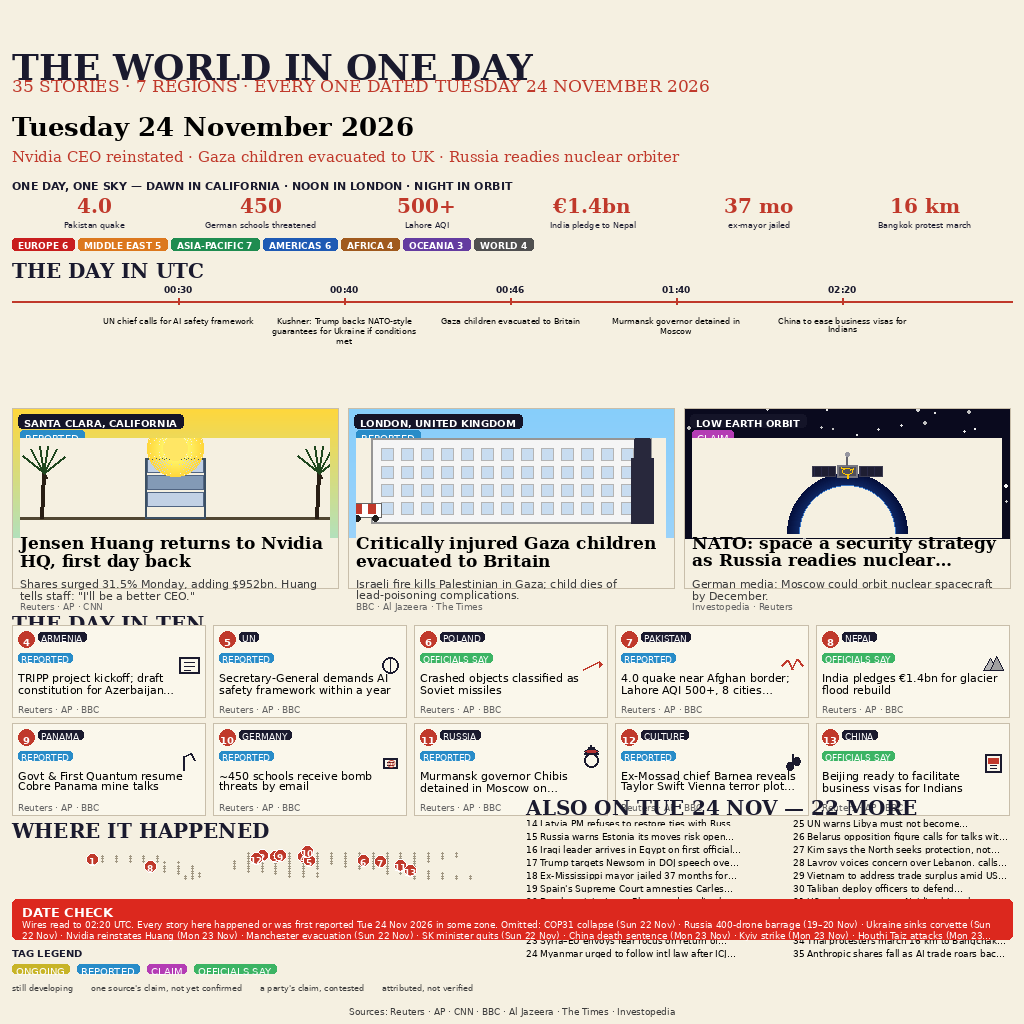
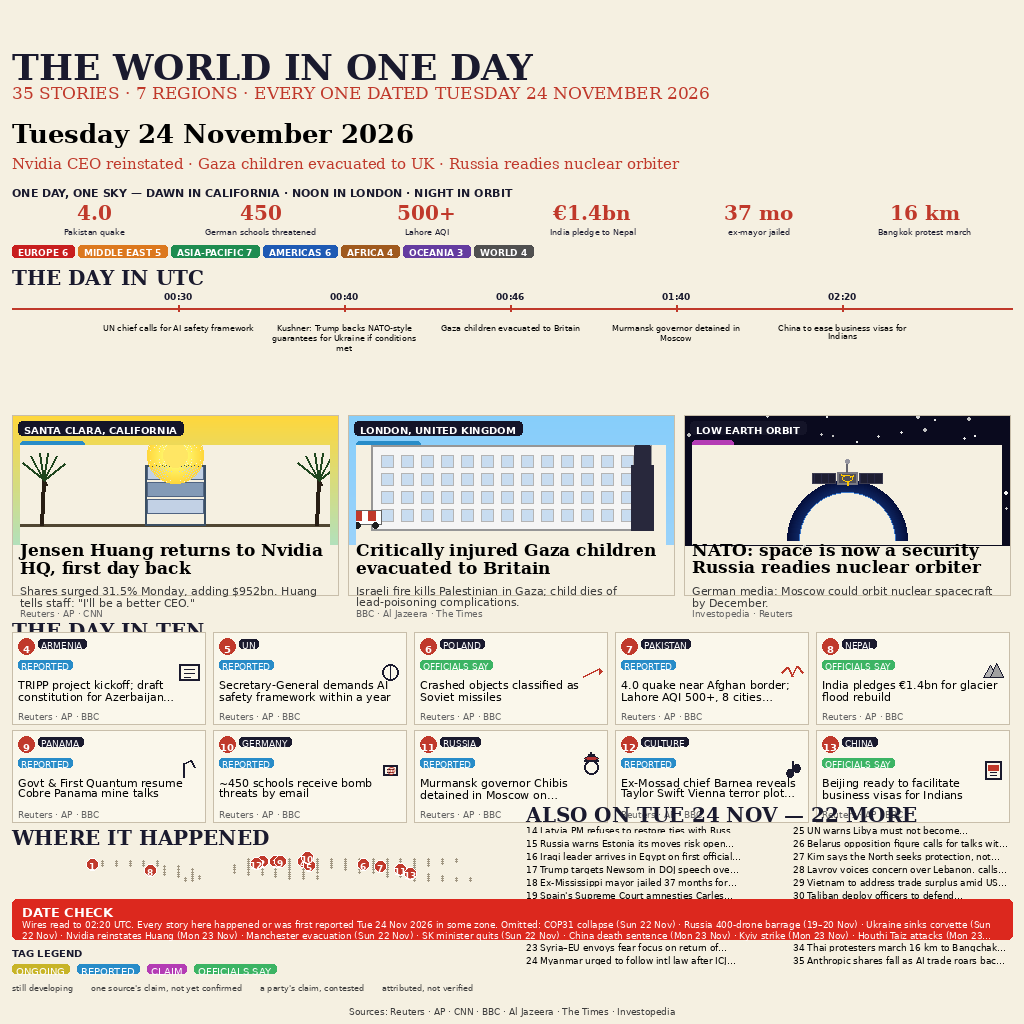
Round 2 fix 5: clip map at x<=514, full panel-3 headline, masthead gap 12px, chips below kicker labels

diff --git a/tools/generate.py b/tools/generate.py
@@ -104,9 +104,12 @@ def wrap_text(draw: ImageDraw.ImageDraw, text: str, font: ImageFont.FreeTypeFont
     return lines
 
 def draw_text_box(draw: ImageDraw.ImageDraw, x: int, y: int, text: str, font: ImageFont.FreeTypeFont,
-                  color: tuple, max_w: int, line_spacing: int = 1, align: str = "left", max_lines: int = None) -> int:
+                  color: tuple, max_w: int, line_spacing: int = 1, align: str = "left", max_lines: int = None,
+                  no_ellipsis: bool = False) -> int:
     lines = wrap_text(draw, text, font, max_w)
     if max_lines is not None and len(lines) > max_lines:
+        if no_ellipsis:
+            raise ValueError(f"Text exceeds max_lines={max_lines} and no_ellipsis=True: {text!r}")
         lines = lines[:max_lines]
         last = lines[-1]
         while measure_text(draw, last + "…", font)[0] > max_w and len(last) > 3:
@@ -409,6 +412,7 @@ def generate() -> Image.Image:
 
     GAP = 5
     GAP8 = 16  # minimum 8px CLEAR visual gap for Cluster A bands (font metrics need extra)
+    MASTHEAD_GAP = 12  # fixed: was 5px, now 12px for clear gap after title
 
     # ═══ MEASURE ALL FONT METRICS ═══
     title_h = font_height(draw, F_TITLE)
@@ -465,7 +469,7 @@ def generate() -> Image.Image:
 
     # 1. MASTHEAD (baseline at y + ascent)
     Y_MASTHEAD_BASELINE = y + title_ascent
-    y = Y_MASTHEAD_BASELINE + title_descent + GAP
+    y = Y_MASTHEAD_BASELINE + title_descent + MASTHEAD_GAP
 
     # 2. SUBHEAD
     Y_SUBHEAD_BASELINE = y + subhead_ascent
@@ -673,7 +677,7 @@ def generate() -> Image.Image:
         {
             "kicker": "LOW EARTH ORBIT",
             "tag": "CLAIM",
-            "headline": "NATO: space a security strategy as\nRussia readies nuclear orbiter",
+            "headline": "NATO: space is now a security\nRussia readies nuclear orbiter",
             "body": "German media: Moscow could orbit\nnuclear spacecraft by December.",
             "source": "Investopedia · Reuters",
             "scene_draw": draw_orbit_scene,
@@ -703,7 +707,9 @@ def generate() -> Image.Image:
         draw.rounded_rectangle([kx, ky, kx + kw + 2 * kpad_x, ky + kh + 2 * kpad_y],
                                radius=4, fill=(20, 20, 40))
         draw.text((kx + kpad_x, ky + kpad_y), kicker, font=F_CAPTION_BOLD, fill=WHITE)
-        draw_chip(draw, px + 8, py + 22, story["tag"], F_CAPTION, TAG_COLOURS[story["tag"]])
+        # Chip in own y-band BELOW kicker: 6px below kicker bottom, 6px inside left edge
+        chip_y = ky + kh + 2 * kpad_y + 6
+        draw_chip(draw, px + 8, chip_y, story["tag"], F_CAPTION, TAG_COLOURS[story["tag"]])
         scene_x = px + 8
         scene_y = py + 30
         scene_w = panel_w - 16
@@ -722,7 +728,9 @@ def generate() -> Image.Image:
             bg.paste(scene_img, mask=scene_img.split()[3])
             img.paste(bg, (scene_x, scene_y))
         hy = py + panel_h - 55
-        draw_text_box(draw, px + 8, hy, story["headline"], F_HEADLINE_XS, BLACK, panel_w - 16, line_spacing=1, max_lines=2)
+        # Panel 3 (i==2): disable ellipsis so too-long text fails loudly
+        no_ellipsis = (i == 2)
+        draw_text_box(draw, px + 8, hy, story["headline"], F_HEADLINE_XS, BLACK, panel_w - 16, line_spacing=1, max_lines=2, no_ellipsis=no_ellipsis)
         by = hy + 44
         draw_text_box(draw, px + 8, by, story["body"], F_BODY_SM, DARK_GRAY, panel_w - 16, line_spacing=1, max_lines=2)
         sy = by + 24
@@ -783,14 +791,20 @@ def generate() -> Image.Image:
     available_map_h = max(20, Y_DATE_CHECK_TOP - 8 - map_content_y)
     map_h = available_map_h + 22  # +22 for header space in map_h variable used by lonlat_to_xy
 
+    # Hard vertical divider at x=514 (list starts at 526, 12px clear)
+    MAP_CLIP_X = 514
+    # Pin radius is 6, land dot radius is 1. Clip centers so edges don't cross 514.
+    PIN_CLIP_X = MAP_CLIP_X - 6   # 508
+    DOT_CLIP_X = MAP_CLIP_X - 1   # 513
+
     for lon, lat in LAND_GRID:
         dx, dy = lonlat_to_xy(lon, lat, map_x, map_content_y, map_w, available_map_h)
-        if map_x <= dx < map_x + map_w and map_content_y <= dy < map_content_y + available_map_h:
+        if map_x <= dx <= DOT_CLIP_X and map_content_y <= dy < map_content_y + available_map_h:
             draw.ellipse([dx - 1, dy - 1, dx + 1, dy + 1], fill=(160, 150, 130))
 
     for num, name, lon, lat in PINS:
         px, py = lonlat_to_xy(lon, lat, map_x, map_content_y, map_w, available_map_h)
-        if map_x <= px < map_x + map_w and map_content_y <= py < map_content_y + available_map_h:
+        if map_x <= px <= PIN_CLIP_X and map_content_y <= py < map_content_y + available_map_h:
             draw.ellipse([px - 6, py - 6, px + 6, py + 6], fill=RED, outline=WHITE, width=1)
             nw, nh = measure_text(draw, str(num), F_MAP_NUM)
             draw.text((px - nw // 2, py - nh // 2), str(num), font=F_MAP_NUM, fill=WHITE)
